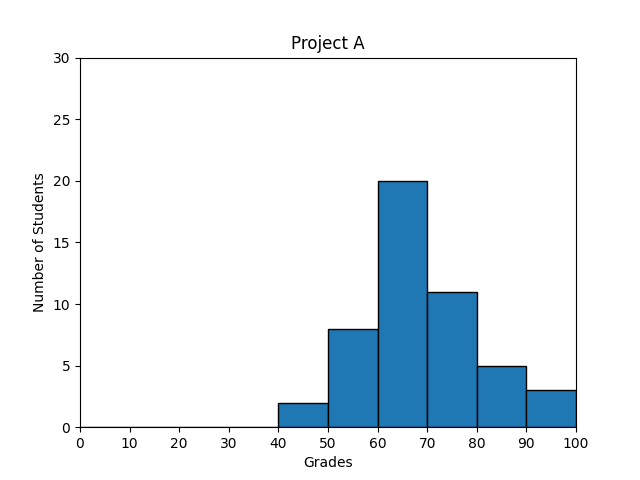
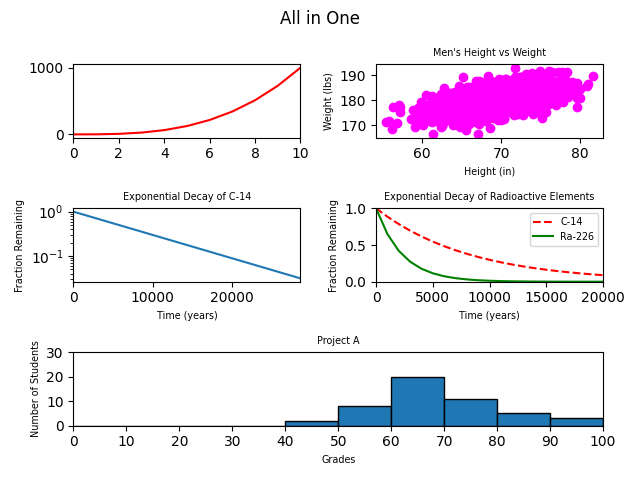
all in one

diff --git a/math/plotting/5-all_in_one.py b/math/plotting/5-all_in_one.py
@@ -1,0 +1,76 @@
+#!/usr/bin/env python3
+"""5-all_in_one.py"""
+import numpy as np
+import matplotlib.pyplot as plt
+
+def all_in_one():
+    """code to plot all 5 previous graphs in one figure"""
+    y0 = np.arange(0, 11) ** 3
+    x0 = np.arange(0, 11)
+    mean = [69, 0]
+    cov = [[15, 8], [8, 15]]
+    np.random.seed(5)
+    x1, y1 = np.random.multivariate_normal(mean, cov, 2000).T
+    y1 += 180
+
+    x2 = np.arange(0, 28651, 5730)
+    r2 = np.log(0.5)
+    t2 = 5730
+    y2 = np.exp((r2 / t2) * x2)
+
+    x3 = np.arange(0, 21000, 1000)
+    r3 = np.log(0.5)
+    t31 = 5730
+    t32 = 1600
+    y31 = np.exp((r3 / t31) * x3)
+    y32 = np.exp((r3 / t32) * x3)
+
+    np.random.seed(5)
+    student_grades = np.random.normal(68, 15, 50)
+
+    plt.figure()
+    plt.suptitle("All in One")
+
+    plt.subplot2grid((3, 2), (0, 0))
+    plt.plot(x0, y0, color='red')
+    plt.xlim(0, 10)
+
+    plt.subplot2grid((3, 2), (0, 1))
+    plt.scatter(x1, y1, color='magenta')
+    plt.title("Men's Height vs Weight", fontsize='x-small')
+    plt.xlabel("Height (in)", fontsize='x-small')
+    plt.ylabel("Weight (lbs)", fontsize='x-small')
+
+    plt.subplot2grid((3, 2), (1, 0))
+    plt.plot(x2, y2)
+    plt.xlabel("Time (years)", fontsize='x-small')
+    plt.ylabel("Fraction Remaining", fontsize='x-small')
+    plt.title("Exponential Decay of C-14", fontsize='x-small')
+    plt.yscale("log")
+    plt.xlim(0, 28650)
+
+    plt.subplot2grid((3, 2), (1, 1))
+    plt.plot(x3, y31, linestyle='--', color='red', label='C-14')
+    plt.plot(x3, y32, linestyle='-', color='green', label='Ra-226')
+    plt.xlabel("Time (years)", fontsize='x-small')
+    plt.ylabel("Fraction Remaining", fontsize='x-small')
+    plt.title("Exponential Decay of Radioactive Elements", fontsize='x-small')
+    plt.xlim(0, 20000)
+    plt.ylim(0, 1)
+    plt.legend(loc='upper right', fontsize='x-small')
+
+    plt.subplot2grid((3, 2), (2, 0), colspan=2)
+    bins = np.arange(0, 101, 10)
+    plt.hist(student_grades, bins=bins, edgecolor='black')
+    plt.xlabel("Grades", fontsize='x-small')
+    plt.ylabel("Number of Students", fontsize='x-small')
+    plt.title("Project A", fontsize='x-small')
+    plt.xlim(0, 100)
+    plt.xticks(np.arange(0, 101, 10))
+    plt.yticks(np.arange(0, 31, 10))
+    plt.ylim(0, 30)
+
+
+    plt.tight_layout()
+    plt.savefig('debug.png')
+    plt.show()
